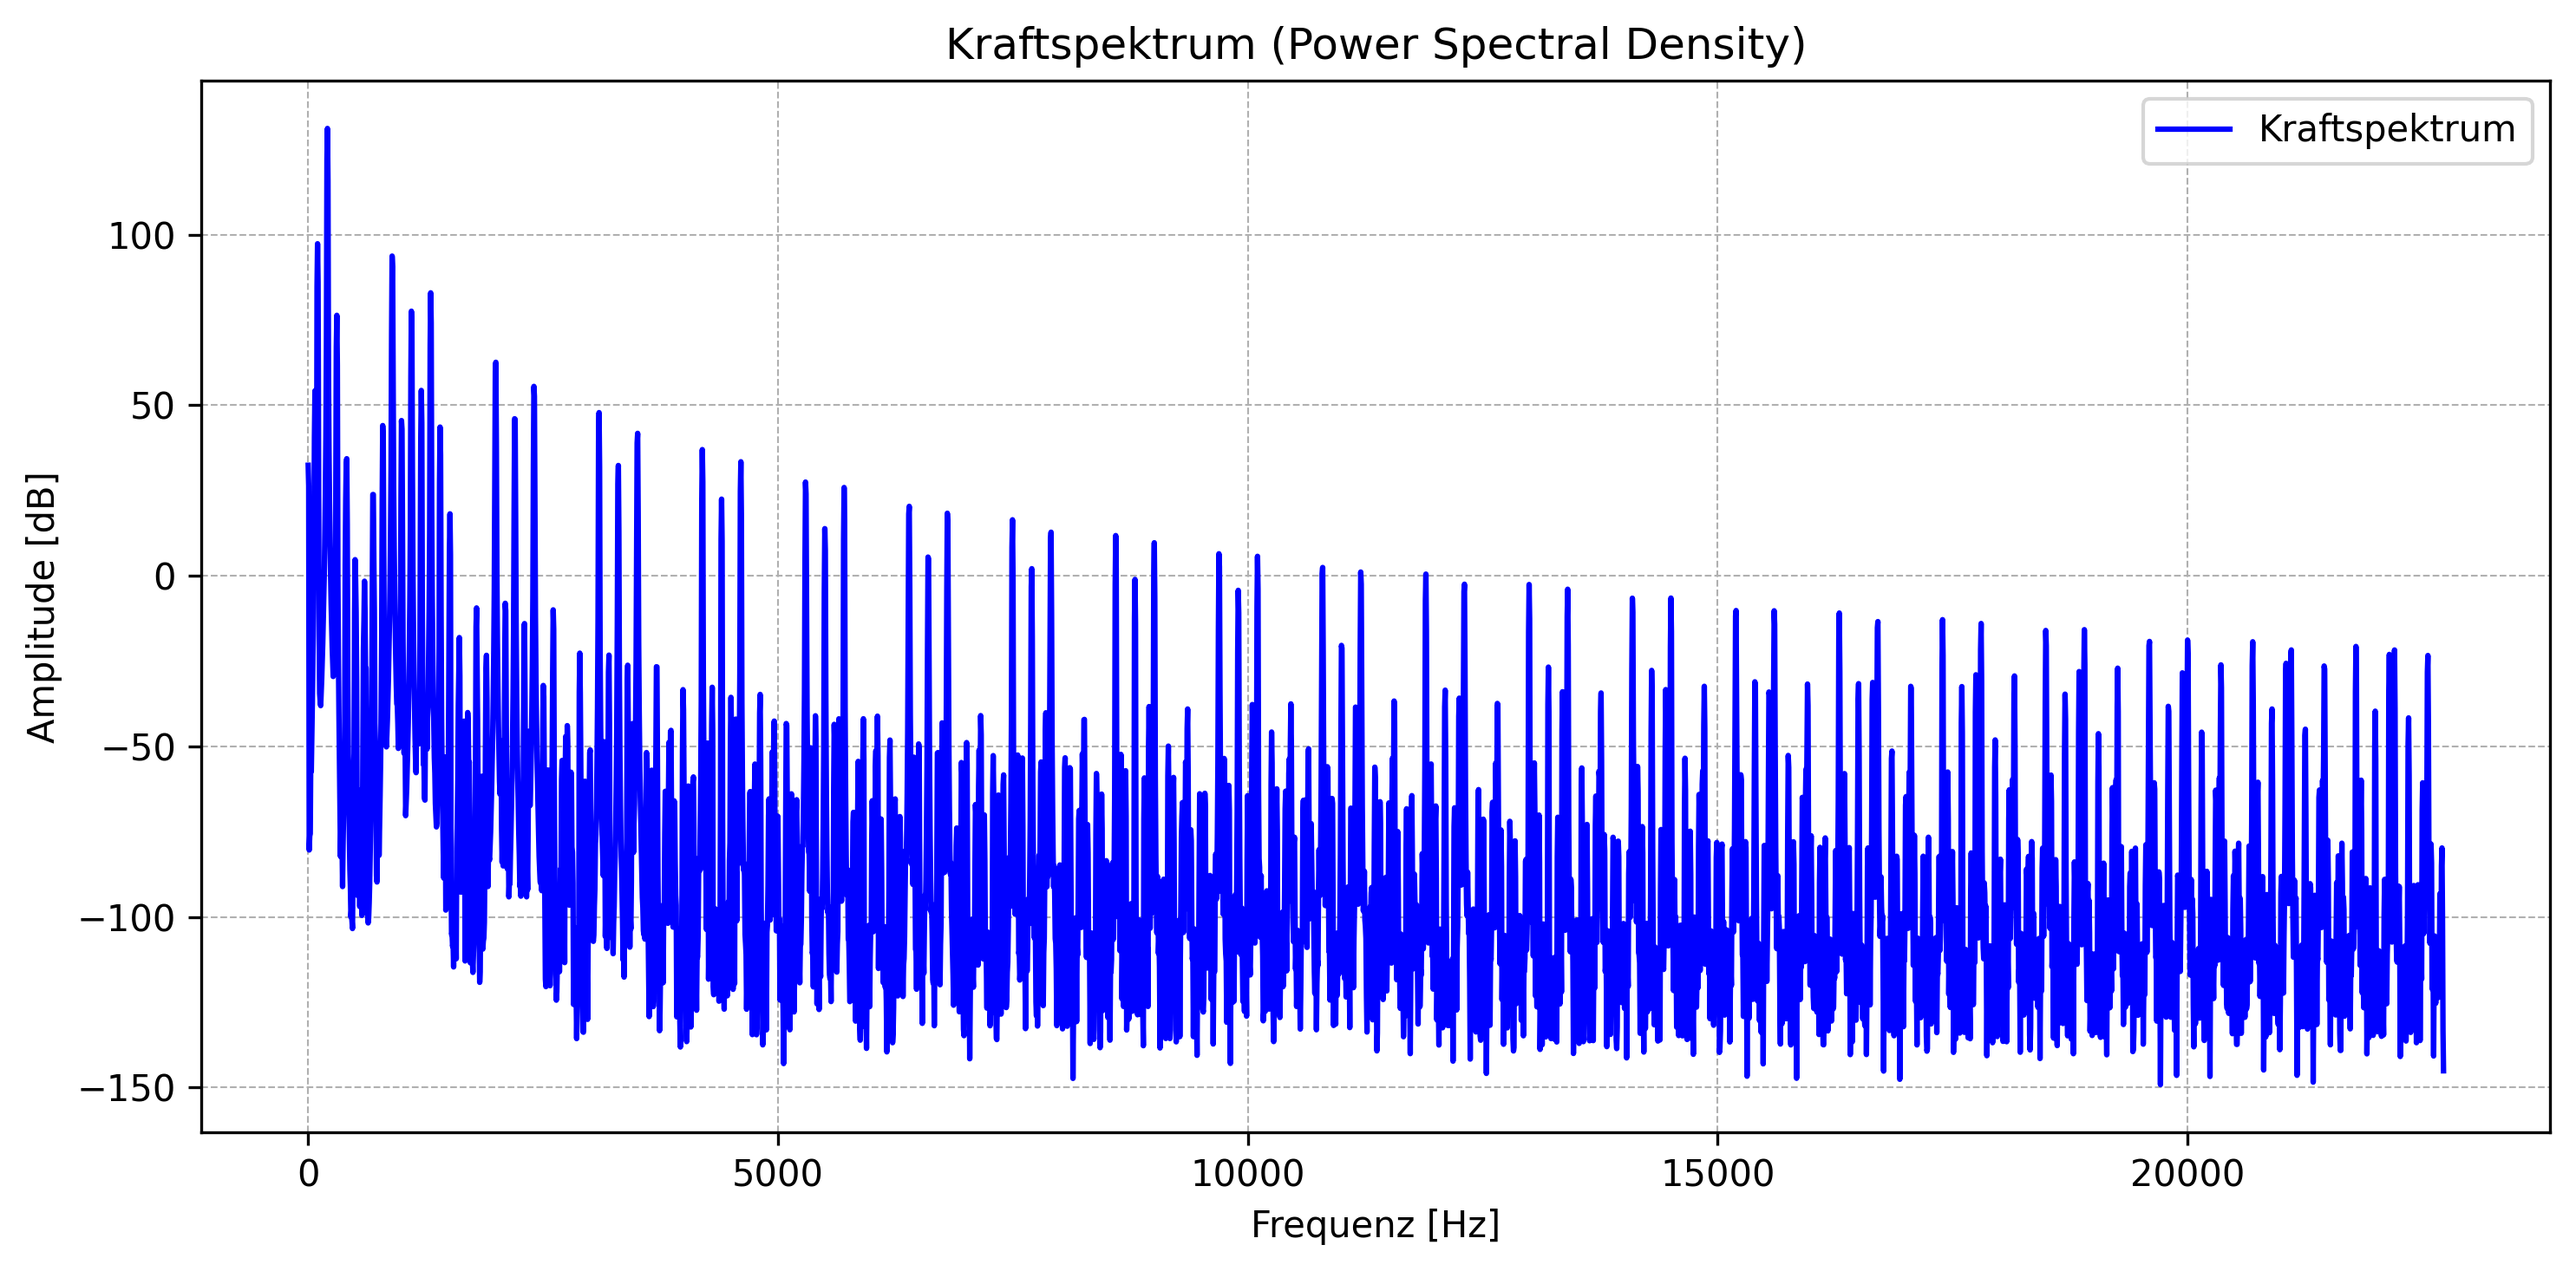
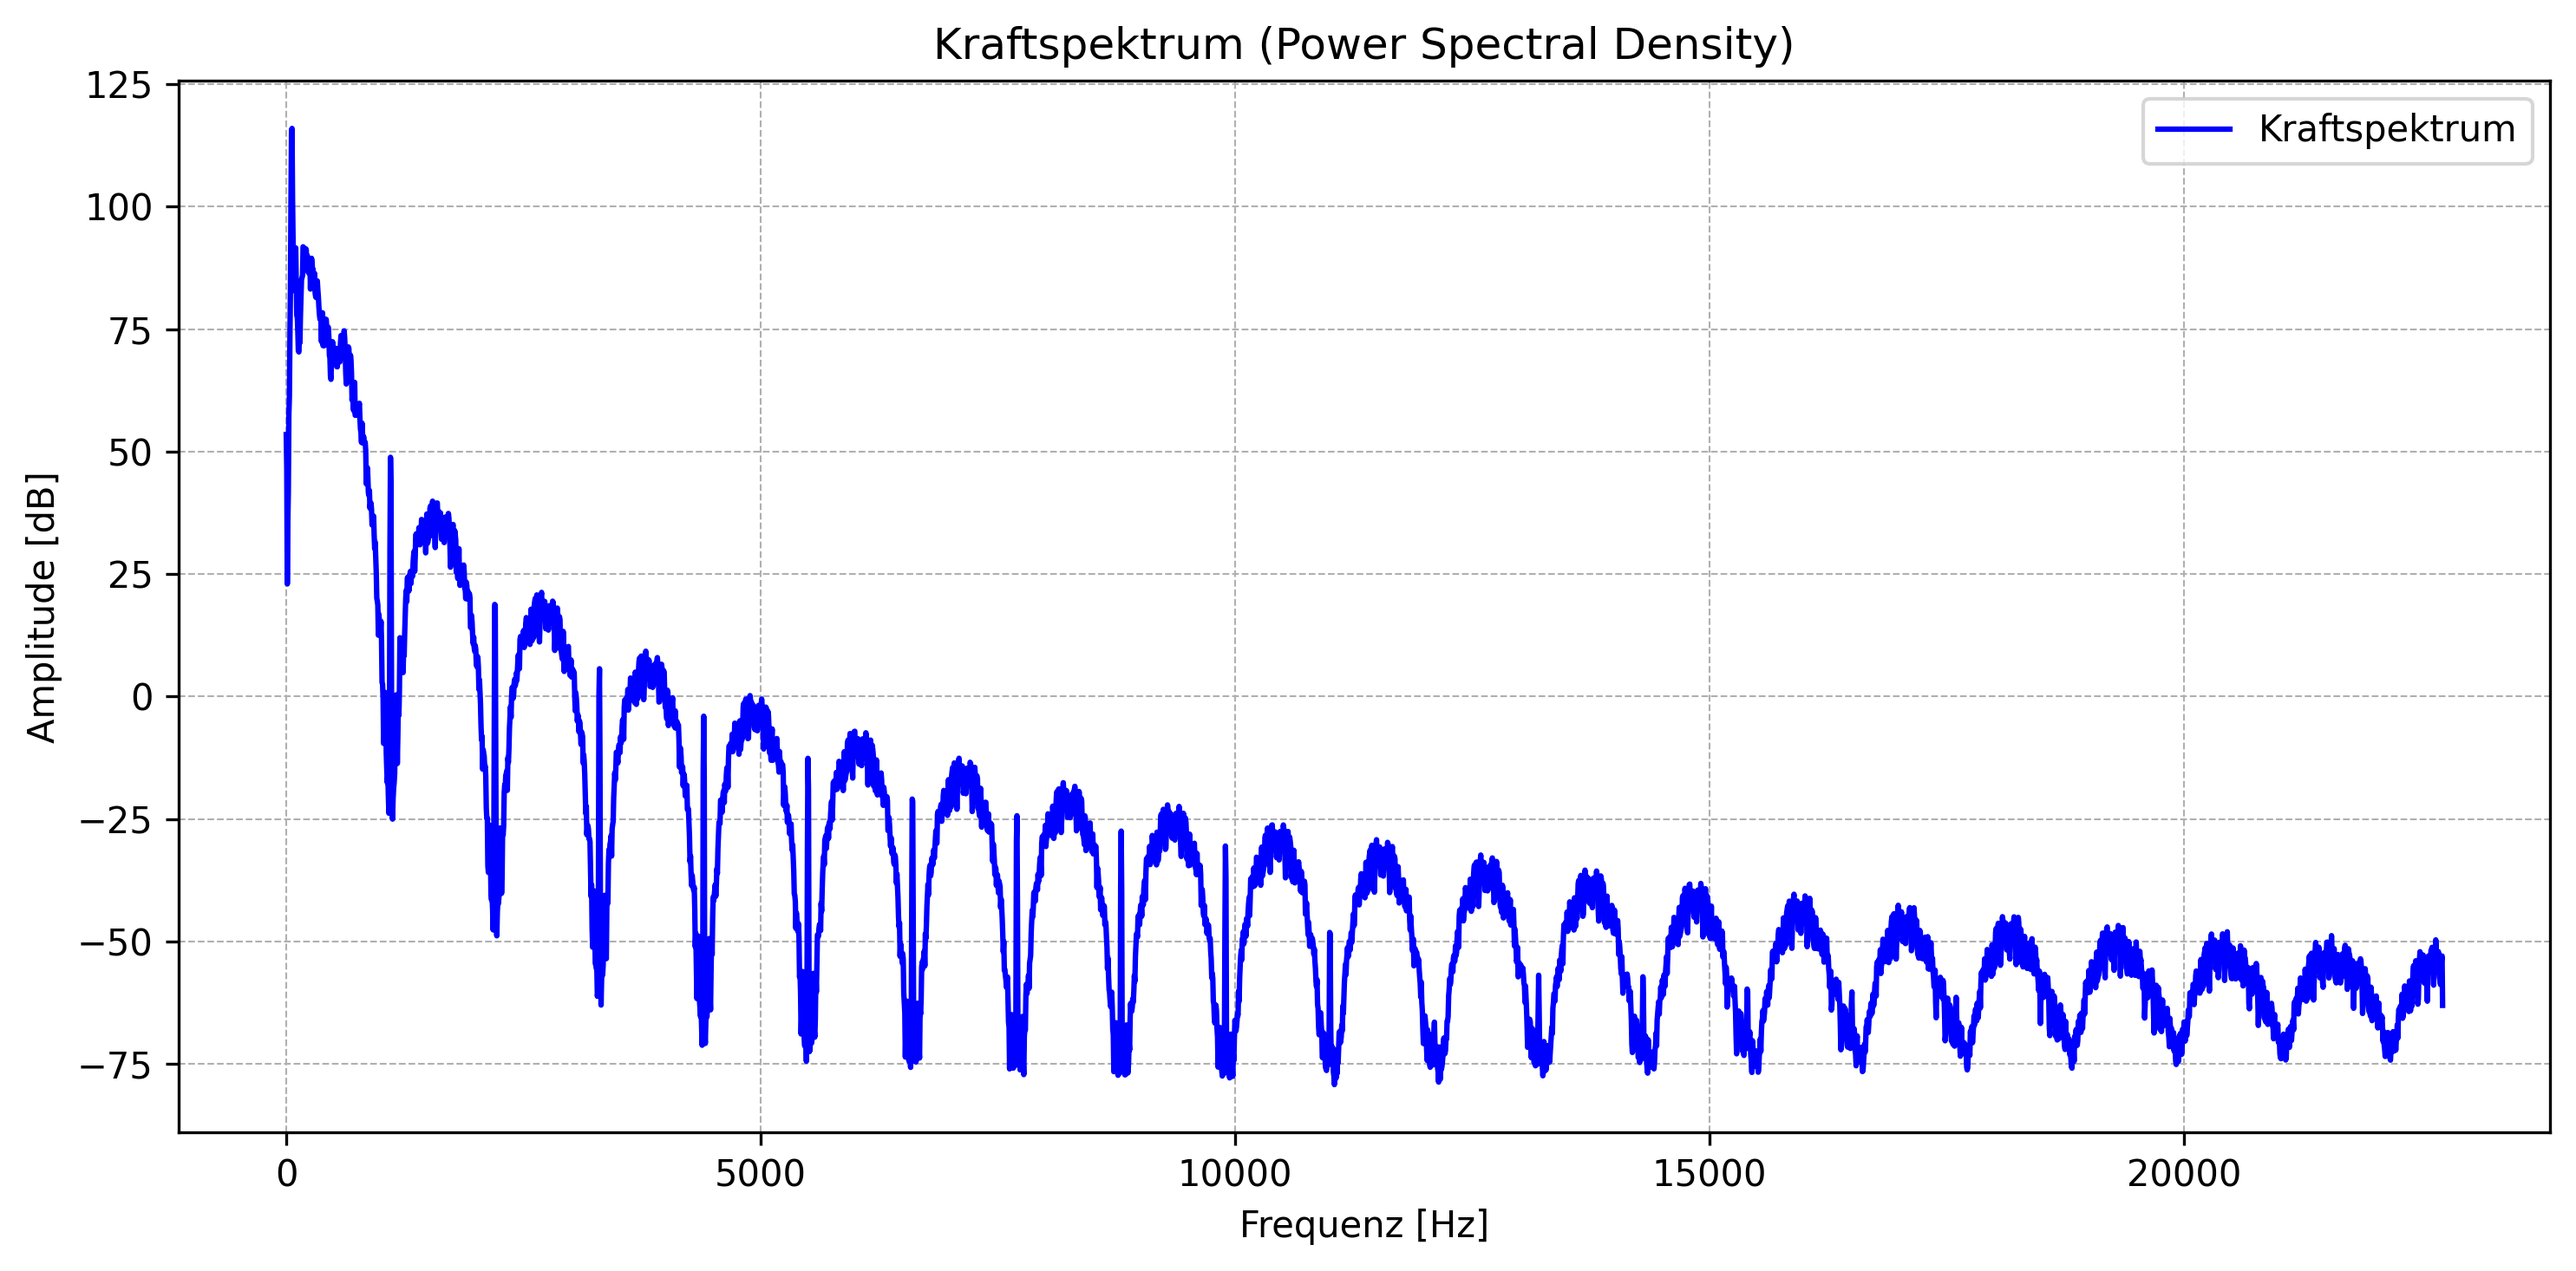
Kraftspektrum 2 Sekunden

diff --git a/Moving_Force.py b/Moving_Force.py
@@ -42,7 +42,7 @@ import pickle
 # =============================================================================
 store_deflection          = True    # TODO: this is not implemented yet!
 starting_position         = 80.0    # Starting position [m]
-num_mount                 = 400     # Number of discrete mounting positions
+num_mount                 = 600     # Number of discrete mounting positions
 distance                  = 0.6     # Distance between sleepers [m]
 l_bound                   = 40.0    # Width of boundary domain
 dt                        = 2.2e-5  # Time step [s]
@@ -51,9 +51,9 @@ ramp_fraction             = 0.1     # Fraction of total time for ramp up (affect
 static_force              = 65000.0 # Static force amplitude [N]
 freq_limit                = 2000
 
-req_simt                    = 1       # Required simulation time [s]
-cut_initial                 = 10000   # Number of initial time steps to cut
-use_precalculated_results   = True
+req_simt                    = 2       # Required simulation time [s]
+cut_initial                 = 30000   # Number of initial time steps to cut
+use_precalculated_results   = False
 use_contact_model           = True
 
 
@@ -146,8 +146,8 @@ else:
             bound       = boundary
         )
 
-        # excitation.generate_roughness(discretization)
-        excitation.generate_harmonic_roughness(discretization, frequency=1/0.046)  # add harmonic roughness at 100 Hz
+        excitation.generate_roughness(discretization)
+        # excitation.generate_harmonic_roughness(discretization, frequency=1/0.046)  # add harmonic roughness at 100 Hz
 
         # Solve for deflection
         deflection_results = DeflectionEBBVertic(

diff --git a/rolland/excitation.py b/rolland/excitation.py
@@ -96,26 +96,16 @@ class MovingForce(MovingExcitation):
         n = discr.nx
         dx = discr.dx
 
-        k = np.fft.fftfreq(n, dx)
-        PSD = 1/(1+(k/50)**2)
-        PSD[k == 0] = 0  # avoid division by zero at k=0
+        k = 2*np.pi * np.fft.fftfreq(n, dx)  # wichtig!!
 
-        rng = np.random.default_rng(42)
-        phase = np.exp(1j * 2*np.pi * rng.random(n//2 + 1))
+        PSD = 1 / (1 + (k/200)**2)   # kontrollierbarer!
 
-        # half spectrum
-        amp = np.sqrt(PSD[:n//2 + 1])
-        half = amp * phase
+        phase = np.exp(1j * 2*np.pi * np.random.rand(n))
 
-        # build full symmetric spectrum
-        full = np.zeros(n, dtype=complex)
-        full[:n//2 + 1] = half
-        full[n//2 + 1:] = np.conj(half[1:-1][::-1])
+        roughness_fft = np.sqrt(PSD) * phase
+        r = np.real(np.fft.ifft(roughness_fft))
 
-        r = np.fft.ifft(full).real
-        std = np.std(r)
-        if std > 1e-12:
-            r *= 22e-6 / std
+        r *= 25e-6 / np.std(r)   # ~5 µm RMS
 
         self.roughness = list(r)
 

diff --git a/rolland/deflection.py b/rolland/deflection.py
@@ -193,7 +193,7 @@ class DeflectionEBBVertic(Deflection):
                 alpha       = 1                     # NOTE: hardcoded parameter, get from wheel geometry if available
                 C           = ((2*(1-nu))/(G*np.sqrt(Ra)))**(2/3) * alpha
 
-                # C = 2*C  # NOTE: this is a hack to increase the contact stiffness, needs to be fixed with correct parameters ASAP
+                C = 4*C  # NOTE: this is a hack to increase the contact stiffness, needs to be fixed with correct parameters ASAP
 
                 for i in range(max_iter):
                     # Calculate rail deflection, roughness, and wheel deflection
